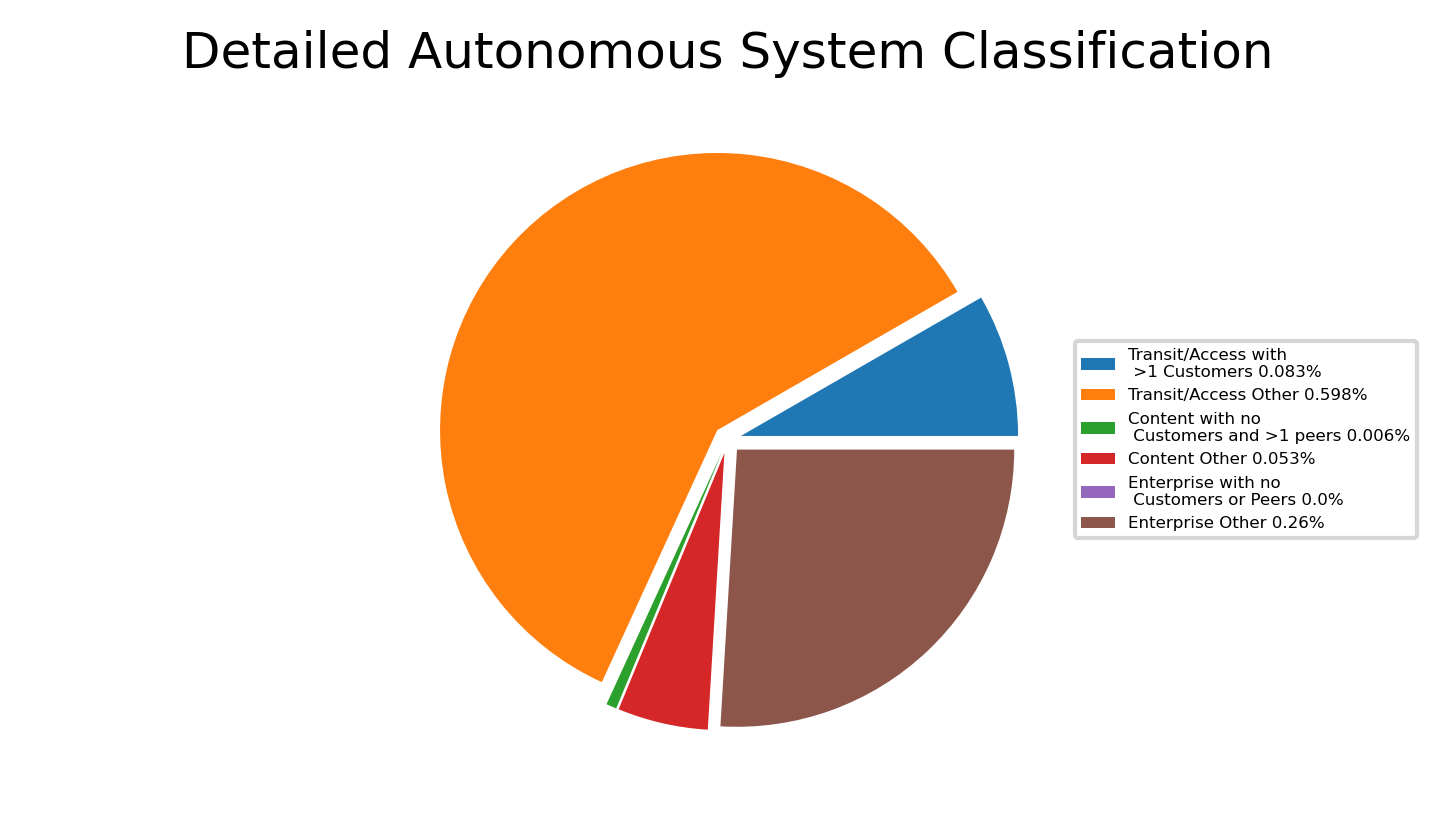
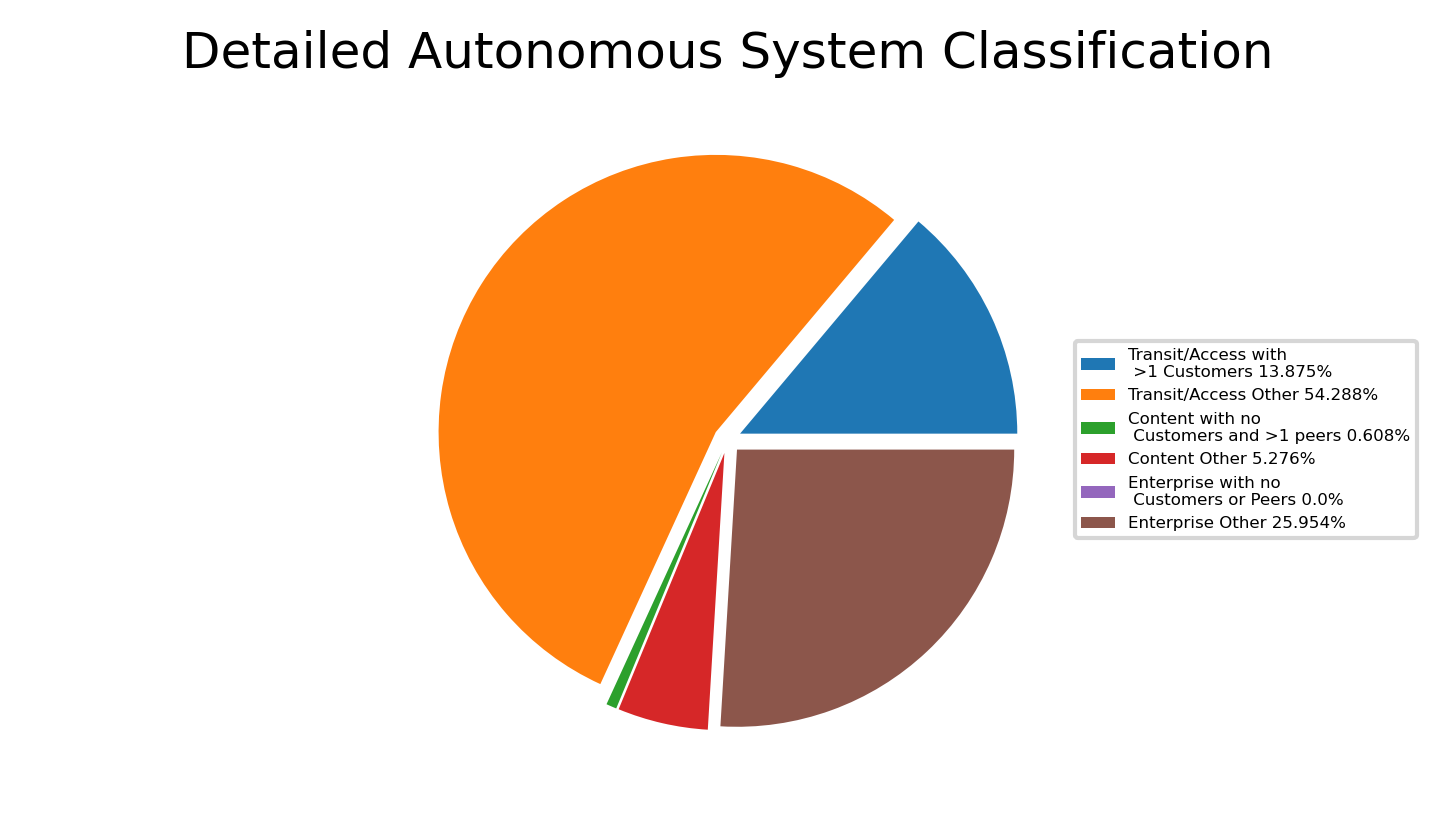
Merge remote-tracking branch 'origin/main' into main
# Conflicts:
#	main.py
#	utils.py

Fix some small plotting bugs

diff --git a/main.py b/main.py
@@ -84,7 +84,7 @@ def get_graph_1(data_dict):
         elif data_dict[i].classification == 'Enterprise':
             bins[2] += 1
     for i in range(len(bins)):
-        labels[i] = f'{labels[i]} {round(bins[i]/sum(bins),2)}%'
+        labels[i] = f'{labels[i]} {round(bins[i]/sum(bins)*100,3)}%'
     fig = plt.figure(figsize=(6, 3))
     ax = fig.add_subplot(111)
     ax.axis('equal')
@@ -124,12 +124,12 @@ def get_graph_2(data_dict):
         elif 1000 < data_dict[i].degree:
             bins[5] += 1
     fig, ax = plt.subplots()
-    bins = (np.array(bins)/sum(bins)).tolist()
+    bins = (np.array(bins)/sum(bins)*100).tolist()
     ax.grid(which="both", zorder=0)
     ax.bar(list(range(len(bins))), bins, zorder=3)
     plt.xticks(list(range(len(labels))), labels)
     plt.xlabel('Number of Distinct Links')
-    plt.ylabel('Distribution of Autonomous Systems')
+    plt.ylabel('Percentage of Autonomous Systems')
     plt.title('Autonomous System Node Degree Distribution')
     plt.savefig('node_degree_dist.png', dpi=300)
     plt.close(fig)
@@ -190,7 +190,7 @@ def get_graph_4(data_dict):
     bins = [0]*len(labels)
     for i in data_dict:
         if data_dict[i].classification == 'Transit/Access':
-            if len(data_dict[i].customers) > 1:
+            if len(data_dict[i].customers) >= 1:
                 bins[0] += 1
             else:
                 bins[1] += 1
@@ -205,7 +205,7 @@ def get_graph_4(data_dict):
             else:
                 bins[5] += 1
     for i in range(len(bins)):
-        labels[i] = f'{labels[i]} {round(bins[i]/sum(bins),3)}%'
+        labels[i] = f'{labels[i]} {round(bins[i]/sum(bins)*100,3)}%'
     fig = plt.figure(figsize=(6, 3))
     ax = fig.add_subplot(111)
     ax.axis('equal')
